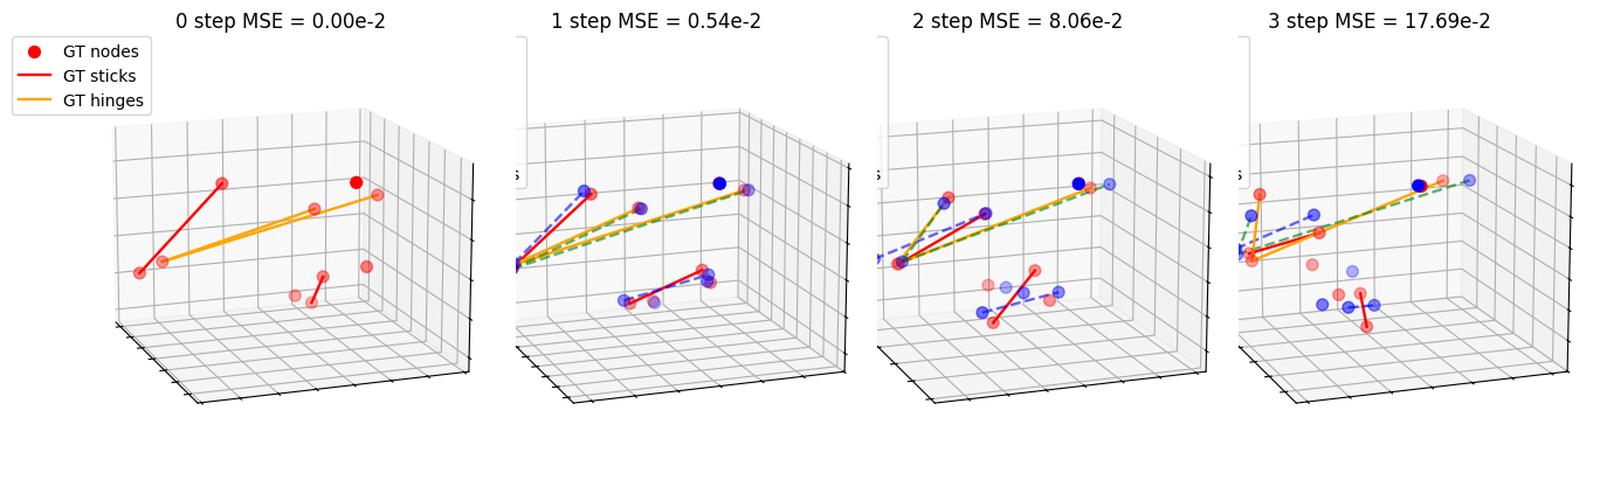
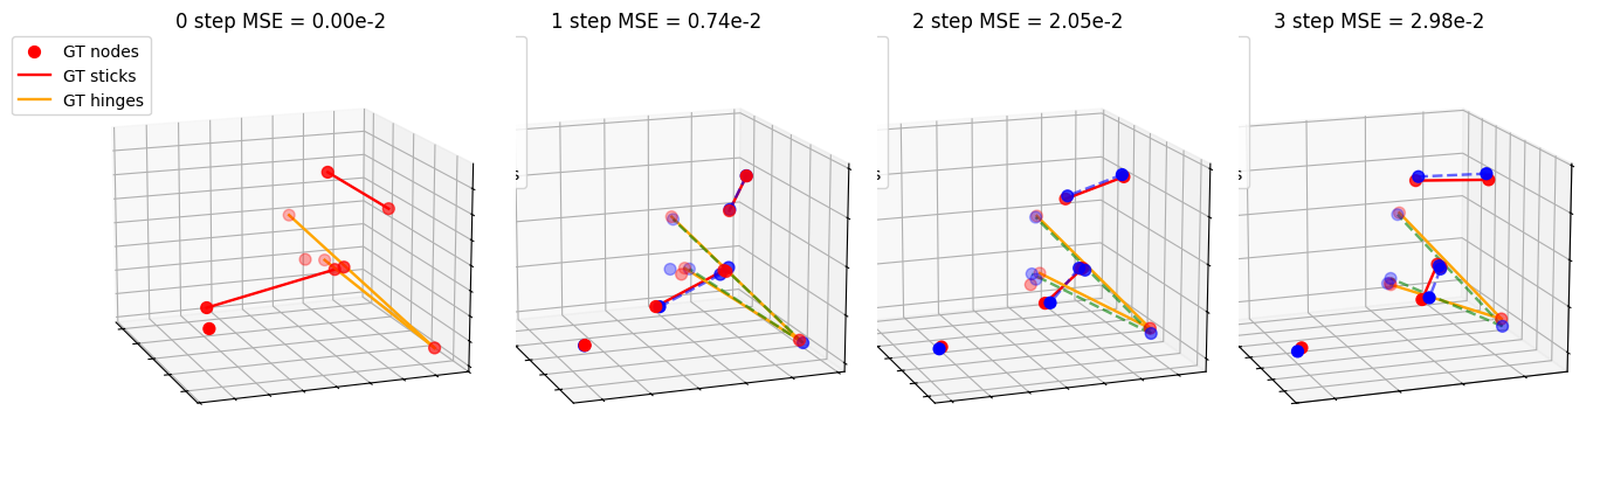
Use a representative good n-body case in the README, and state the spread
The lead figure was the median of 60 sequences, which undersold the case badly:
the median sequence is about four times the error of a good one, so the picture
looked far worse than the reported numbers suggest.

It now shows the 10th percentile of 200 sequences, labelled as such rather than
passed off as typical, and the text gives the actual spread (p10 2.98, median
12.65, p90 55.06, times 1e-2 at three steps) with a warning that --mode visual
samples at random and will usually look looser than the figure.

Worth recording alongside this: dropping the external force improved the good
end and left the median alone but widened the tail, p90 55.06 against 41.96 for
the previous checkpoint. That is the cost of the change and it is now visible in
the README instead of only in the aggregate MSE.

diff --git a/README.md b/README.md
@@ -31,7 +31,18 @@ so the last quoted digit moves between runs.
 ![N-body rollout](docs/assets/nbody_rollout.png)
 
 Red is ground truth, blue is prediction. Red lines are rigid sticks, orange are hinges. This
-is a typical case, picked at the median of 60 test sequences rather than the best.
+is a good case, the 10th percentile of 200 test sequences by 3-step error, not the best one.
+
+Accuracy varies a lot between sequences, so one picture does not represent the case on its
+own. Across those 200, 3-step MSE runs:
+
+| | p10 | median | p90 |
+|---|---|---|---|
+| 3-step MSE (×1e-2) | 2.98 | 12.65 | 55.06 |
+
+The median is roughly four times the figure above and the tail is an order of magnitude
+worse, so expect `--mode visual`, which samples at random, to produce something looser than
+this most of the time.
 
 The model is told which edges are sticks or hinges through an edge feature, but rigidity is
 never enforced on the output — there is no constraint projection or correction step. It is
